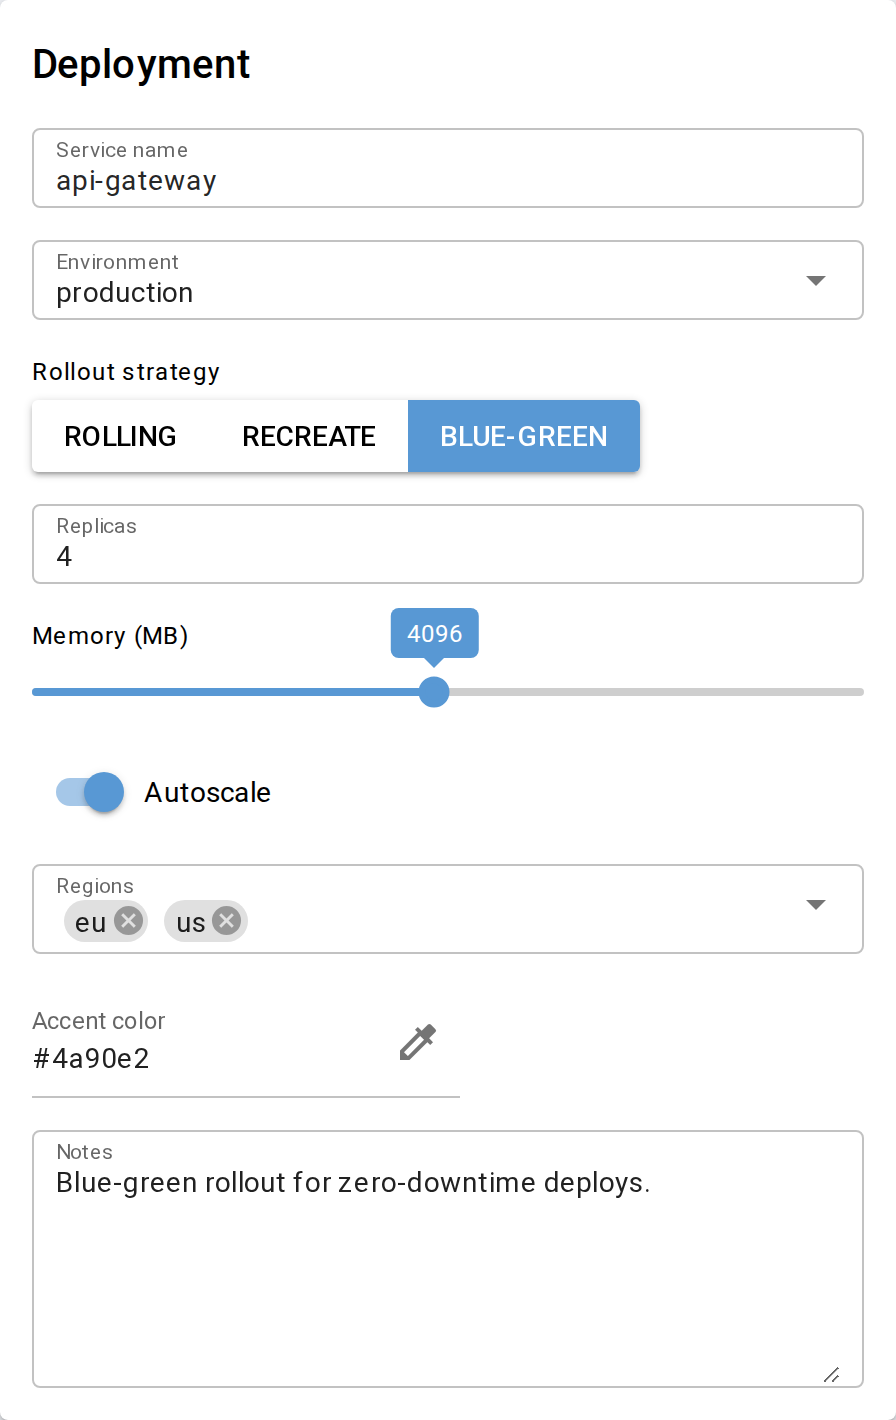
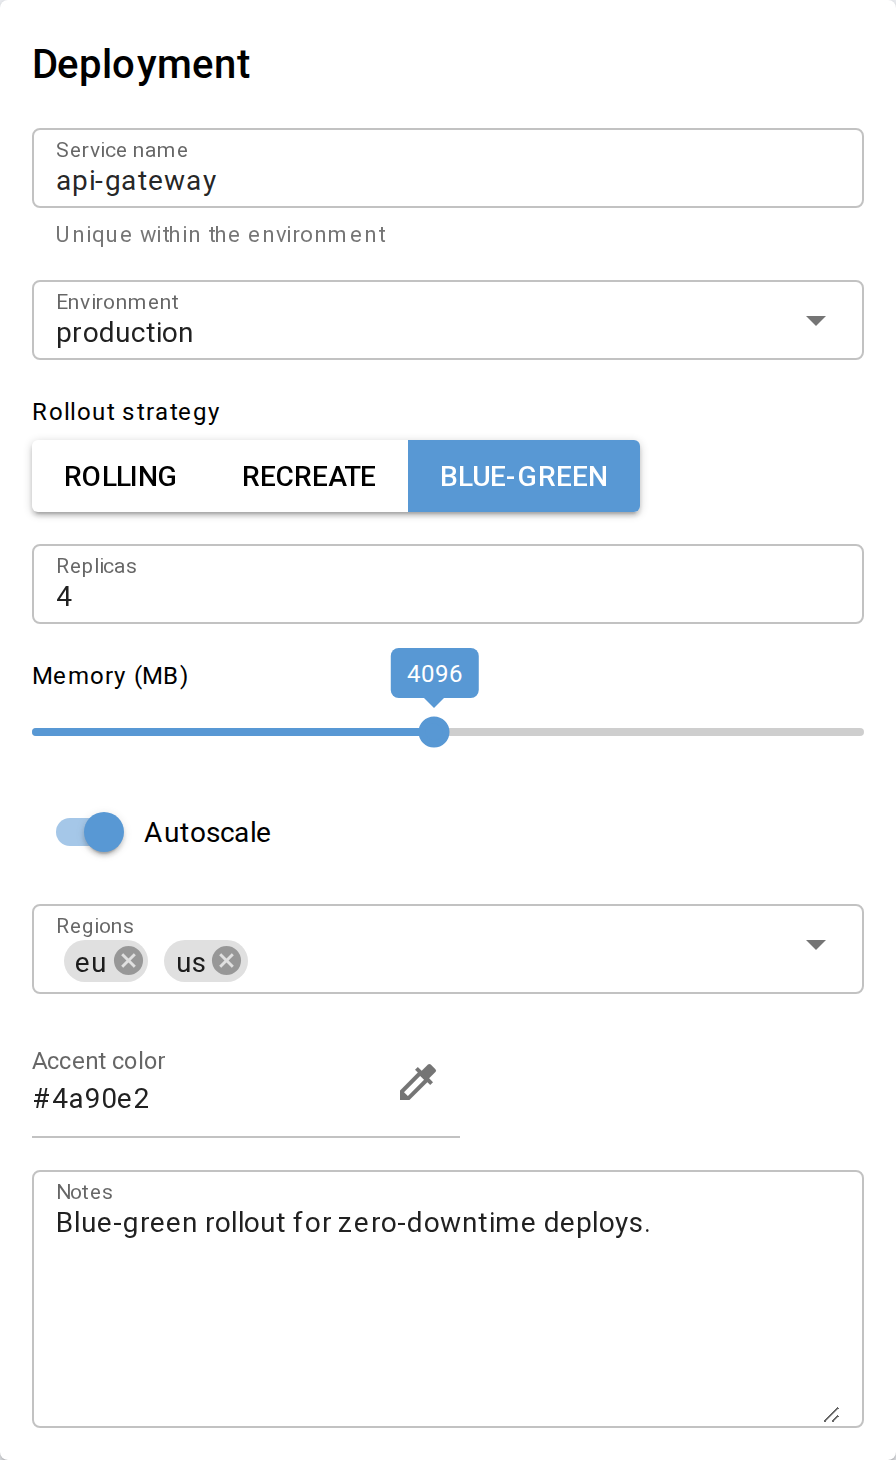
Show a hint in the hero screenshot
Give the screenshot model's 'Service name' a pydantic description, which
0.12.0 renders as a Quasar hint below the field. The hero image is the
first thing a reader sees, and description -> hint is the text mapping
most likely to surprise someone upgrading.

Quasar's hide-bottom-space (set as a default prop in apps.py) only skips
reserving the space when no hint is used; the hint itself still shows.

Claude-Session: https://claude.ai/code/session_01KF9tK81Jq1rJJy5gmELaoS

diff --git a/docs/screenshots/apps.py b/docs/screenshots/apps.py
@@ -23,7 +23,8 @@ for _el in (ui.input, ui.number, ui.select, ui.textarea):
 
 
 class Deployment(pydantic.BaseModel):
-    name: str = pydantic.Field(default='api-gateway', max_length=40, title='Service name')
+    name: str = pydantic.Field(default='api-gateway', max_length=40, title='Service name',
+                               description='Unique within the environment')
     environment: Literal['dev', 'staging', 'production'] = pydantic.Field(default='production', title='Environment')
     strategy: Annotated[
         Literal['rolling', 'recreate', 'blue-green'],
